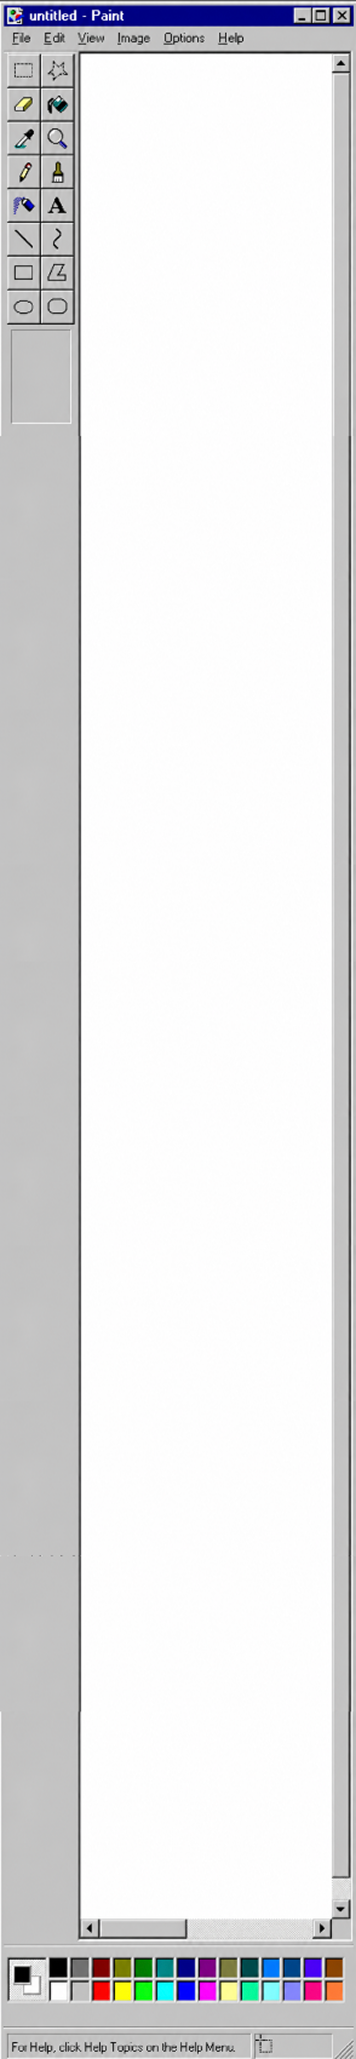
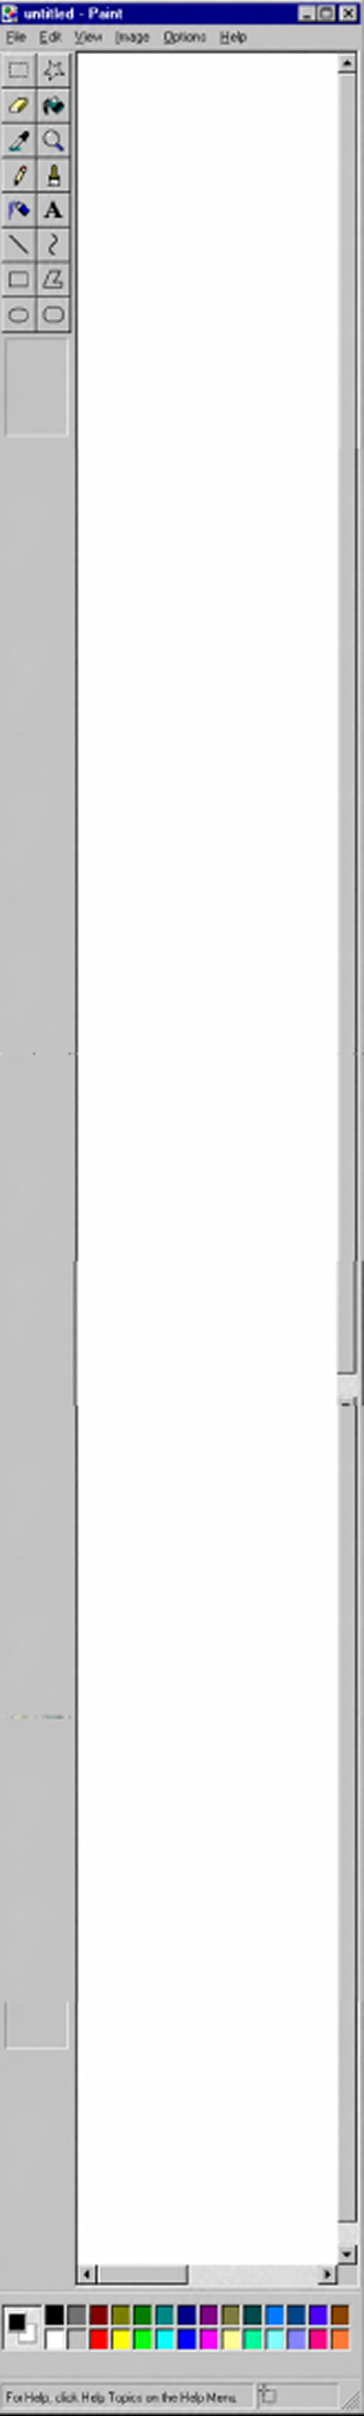
Initial commit for GDGOC Eid Project

Changed region(s): [[0.0, 0.0, 1.0, 1.0], [0.0, 0.8392, 0.0309, 0.8703]]

diff --git a/src/index.css b/src/index.css
@@ -233,6 +233,7 @@ header .right img {
   text-align: right;
   outline: none;
   font-family: inherit;
+  border-radius: 0px;
   transition: opacity 0.2s, background-color 0.2s;
 }
 
@@ -939,7 +940,7 @@ footer span {
     width: 95%;
     min-height: unset;
     aspect-ratio: 1693 / 2348;
-    margin: 0px auto 0px auto;
+    margin: -70px auto 0px auto;
     background-size: 100% 70%;
   }
 
@@ -975,7 +976,7 @@ footer span {
   }
 
   .page-one .input-container {
-    margin-bottom: 35%;
+    margin-bottom: 40%;
     margin-left: 40px;
 
 
@@ -1003,7 +1004,7 @@ footer span {
 
   .page-one .card h3 {
     margin-bottom: 0px;
-    margin-top: 10%;
+    margin-top: 6%;
   }
 
   .page-two .card h3 {
@@ -1182,4 +1183,18 @@ footer span {
   .error-message .error-svg--arabic {
     margin-top: 0px;
   }
+  footer{
+    margin-top: -70px;
+  }
+  .foot,
+  .page-three footer{
+    margin-top: 0px;
+  }
+}
+
+@media (max-width: 480px) {
+  .page-one .card h3 {
+    margin-bottom: 0px;
+    margin-top: 2%;
+}
 }

diff --git a/src/componans/PageFour.jsx b/src/componans/PageFour.jsx
@@ -239,12 +239,12 @@ const PageFour = () => {
                     <div className="canvas-section">
                         <div className="page-four-preview">
                             {/* <CountdownOverlay loaded={isReady} /> */}
-                            <canvas ref={canvasRef} style={{ width: '100%', height: 'auto', display: 'block' }} />
+                            <canvas ref={canvasRef}  style={{ width: '100%', height: 'auto', display: 'block' }} />
                         </div>
                     </div>
                 </div>
             </main>
-            <Footer />
+            <Footer classs="foot" />
         </div>
     );
 };

diff --git a/src/componans/Footer.jsx b/src/componans/Footer.jsx
@@ -1,6 +1,6 @@
-const Footer = () => {
+const Footer = ({classs=""}) => {
     return (
-        <footer>
+        <footer className={classs}>
             {/* <a href='https://linktr.ee/ai.wadod' target='_blank'>تصميم و تطوير <span>ودود</span></a> */}
             <a href='https://linktr.ee/ai.wadod' target='_blank'>تصميم و تطوير <img style={{ marginBottom: "-5px", width: "50px" }} src="footer.png" alt="footer" /></a>
         </footer>

diff --git a/src/componans/PageThree.jsx b/src/componans/PageThree.jsx
@@ -247,7 +247,7 @@ const PageThree = () => {
                     </div>
                 </div>
             )}
-            <Footer />
+            <Footer classs="foot" />
         </div>
     );
 };
